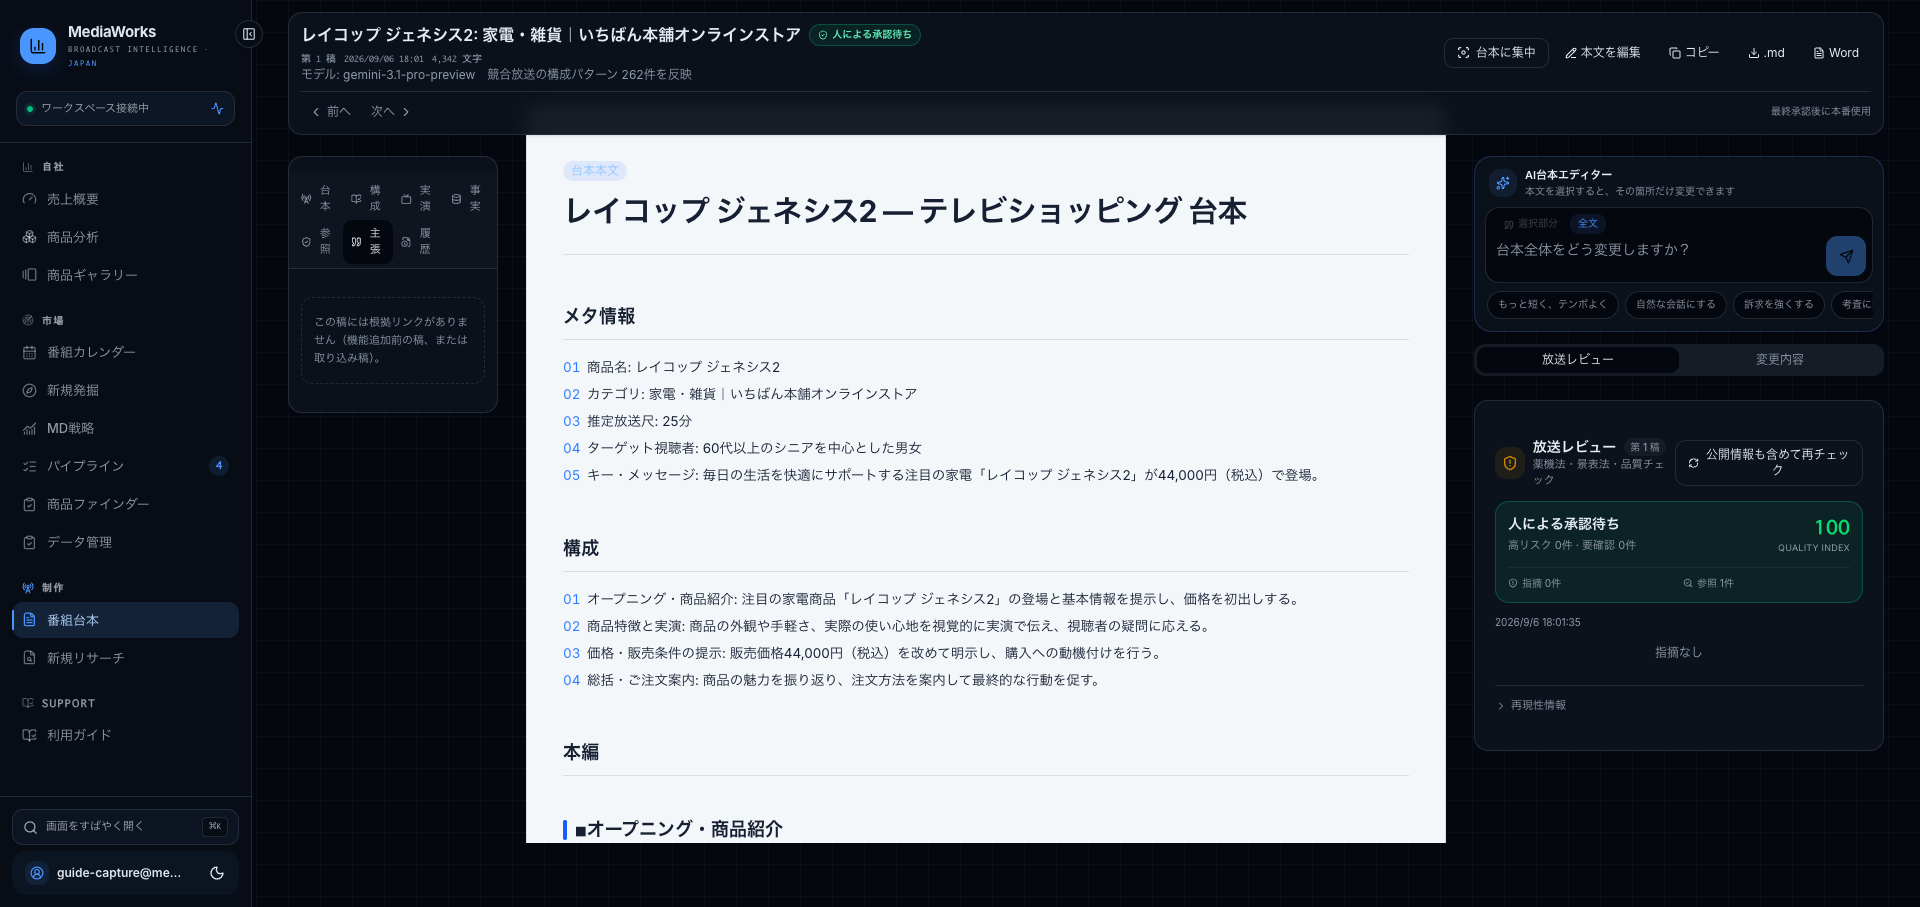
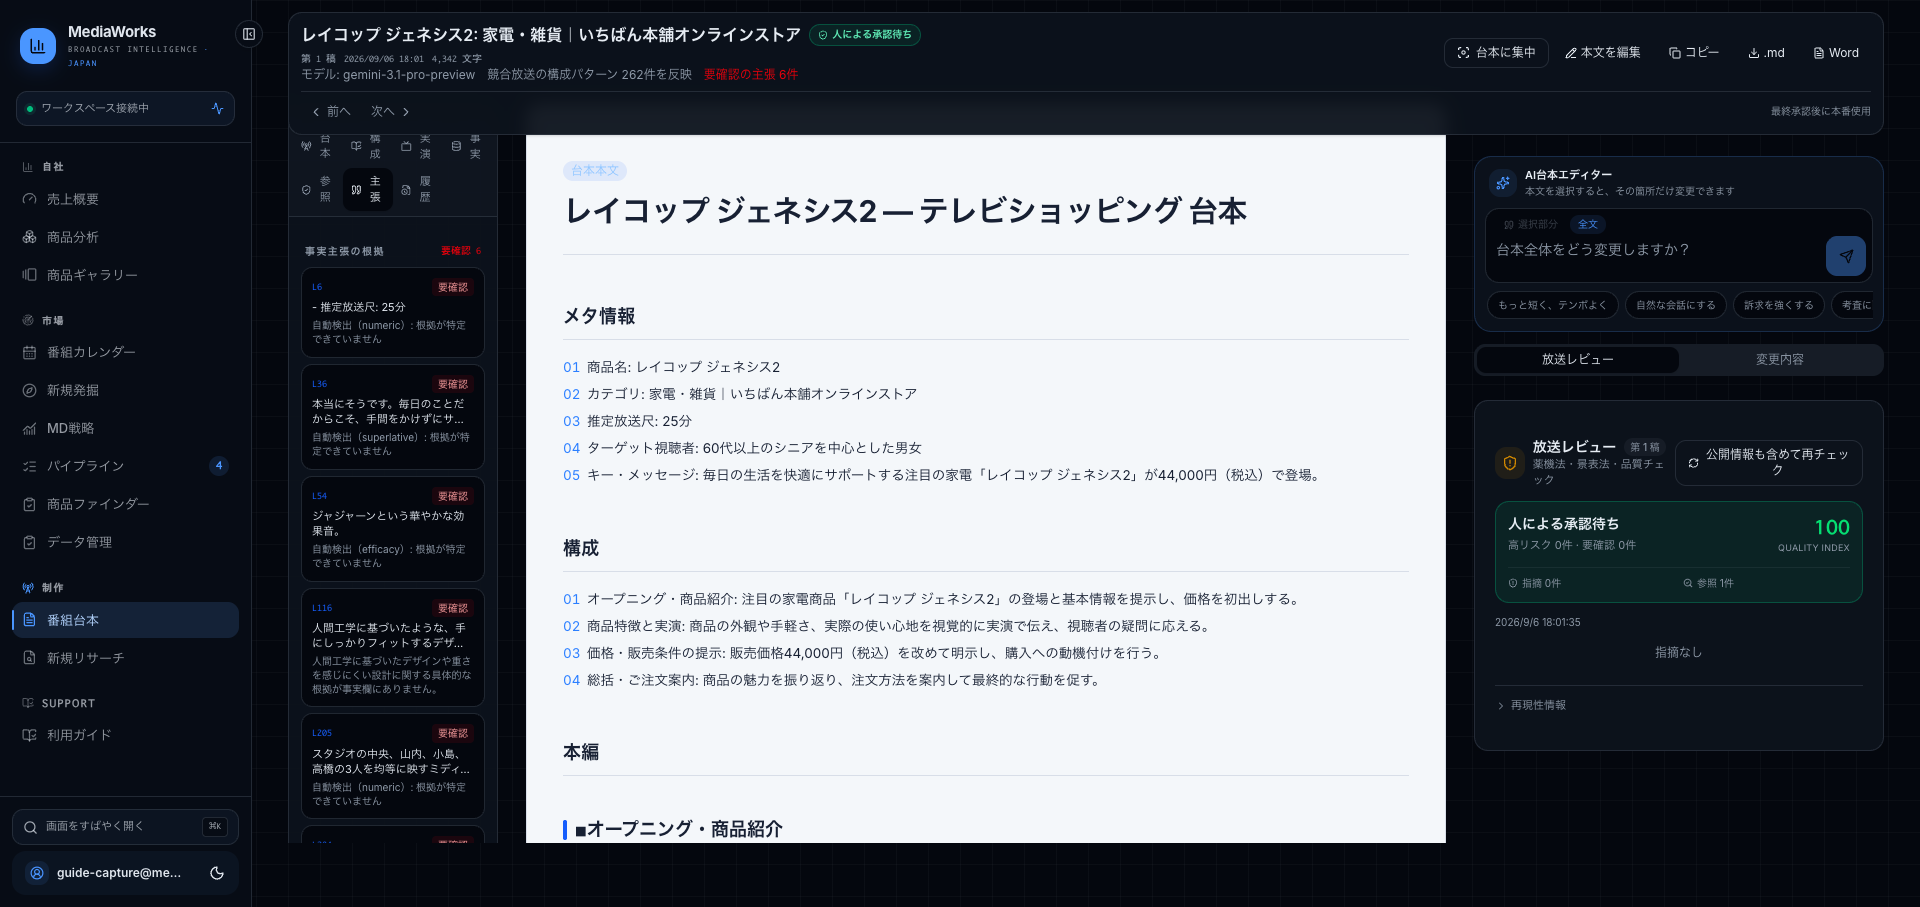
docs(guide): add screenshots for the five undocumented screens
Six captures from the deployed app, wired into the Japanese guide beside the
steps they illustrate: the product finder's evaluation result (showing
「データなし」 and 「判断資料不足」 as they actually render), the import
column-mapping and validation screens, the selection kanban across its four
stages, and the screenplay's 事実 and 主張 tabs.

Taking them surfaced three real bugs, each already fixed and deployed: a
spreadsheet date that could not survive import_rows.raw_json, a translation
key rendered raw as a table header, and provenance panels that always claimed
"unavailable" because the detail page reads the database directly and only
the API route had been wired. None of the three was visible from the tests.

Also corrects the kanban stage names: the JA guide said ソーシング中 where
the screen says 仕入れ中, and the KO guide now gives the on-screen Japanese
labels alongside the Korean, since the app the reader is looking at is in
Japanese.

Removes scripts/_temp-account.ts, a throwaway that a `git add -A scripts`
swept into b44b686. It created and deleted the temporary member account used
for the captures; the account and every row it owned are gone, and the
screenplay it generated keeps its 1 generation context and 20 claim links.

Claude-Session: https://claude.ai/code/session_01EwkQUKGW44gXP6h1oR1HVA

diff --git a/lib/user-guide/content.ts b/lib/user-guide/content.ts
@@ -184,7 +184,7 @@ const ko: GuideContent = {
 				{
 					title: "4단계로 움직인다",
 					body:
-						"선택됨 → 소싱중 → 방송예정 → 종료. 발굴 화면에서 채택하면 자동으로 '선택됨'에 카드가 생긴다. 이후에는 카드를 끌어서 단계를 옮긴다. 방송예정으로 옮길 때는 방송 편성을 연결하거나, 아직 편성이 없으면 메모를 남긴다.",
+						"選択済み(선택됨) → 仕入れ中(소싱중) → 放送予定(방송예정) → 終了(종료). 발굴 화면에서 채택하면 자동으로 '선택됨'에 카드가 생긴다. 이후에는 카드를 끌어서 단계를 옮긴다. 방송예정으로 옮길 때는 방송 편성을 연결하거나, 아직 편성이 없으면 메모를 남긴다.",
 					steps: [
 						"시장 → 파이프라인 을 연다.",
 						"카드를 다음 단계로 끌어다 놓는다.",
@@ -423,6 +423,11 @@ const ja: GuideContent = {
 						"列の対応画面で自動提案を確認して確定する。必須は商品名の1列だけ。",
 						"検証結果でエラー行を確認し、問題なければ適用する。",
 					],
+					image: {
+						src: guideImagePath("10-import-mapping.png"),
+						alt: "データ管理の列対応画面。左に取り込み項目、右にファイルの列のセレクトが並び、下に先頭行のプレビュー表が表示されている。",
+						caption: "自動提案は出るが、確定するのは人。必須は商品名の1列だけ。",
+					},
 				},
 				{
 					title: "実績の列がなくても取り込める",
@@ -433,6 +438,11 @@ const ja: GuideContent = {
 					title: "空欄と 0 は別々に保存される",
 					body:
 						"数量が空欄なら「不明」として、0 なら「0個売れた」という事実として保存されます。この区別が重要なのは、空欄を 0 として読むと、まだ入力していない商品が「売れなかった商品」として順位づけされてしまうからです。分からない値はExcel側で空欄のままにしてください。",
+					image: {
+						src: guideImagePath("11-import-validation.png"),
+						alt: "検証結果画面。取り込み可能3行・エラー1行と表示され、エラー行には列ごとの理由が赤字で並ぶ。下に取り込み履歴の表。",
+						caption: "エラーはExcelの行番号付きで出る。直して再アップロードすればよい。",
+					},
 				},
 				{
 					title: "間違えて入れたとき",
@@ -575,13 +585,18 @@ const ja: GuideContent = {
 				{
 					title: "4段階で動かす",
 					body:
-						"選択済み → ソーシング中 → 放送予定 → 終了。発掘画面で「ソーシング済み」を押すと、自動で「選択済み」にカードが作られます。以降はカードをドラッグして段階を移します。放送予定へ移すときは放送枠を紐づけるか、まだ枠がなければメモを残します。",
+						"選択済み → 仕入れ中 → 放送予定 → 終了。発掘画面で「ソーシング済み」を押すと、自動で「選択済み」にカードが作られます。以降はカードをドラッグして段階を移します。放送予定へ移すときは放送枠を紐づけるか、まだ枠がなければメモを残します。",
 					steps: [
 						"市場 → パイプライン を開く。",
 						"カードを次の段階へドラッグする。",
 						"放送予定へ移すと放送検索ダイアログが開く — 枠を選ぶかメモを入力。",
 						"カードのメニューから「履歴を見る」で、誰がいつ何を変えたかがすべて残っています。",
 					],
+					image: {
+						src: guideImagePath("12-pipeline-kanban.png"),
+						alt: "パイプラインのカンバン。選択済み2件・仕入れ中1件・放送予定1件・終了0件の4列にカードが並ぶ。",
+						caption: "上部メニューの数字バッジが進行中の件数。",
+					},
 				},
 				{
 					title: "終了は自動でも進む",
@@ -609,6 +624,11 @@ const ja: GuideContent = {
 						"条件なしで「蓄積データで探す」を押すだけでも構いません。カテゴリ・価格帯は必要なときだけ。",
 						"結果カードの5つの軸（市場需要・自社適合・収益性・競合余地・放送適合）を見る。",
 					],
+					image: {
+						src: guideImagePath("09-product-finder.png"),
+						alt: "商品ファインダーの評価結果。順位・総合指標と5つの軸が並び、データのない軸には「データなし」、想定貢献利益には「判断資料不足」と表示されている。",
+						caption: "「データなし」「判断資料不足」は低評価ではなく、測る材料がないという表示。",
+					},
 				},
 				{
 					title: "「判断資料不足」は0点ではない",
@@ -799,6 +819,11 @@ const ja: GuideContent = {
 						"構成 / 実演 — 台本を書く前に確定した進行順と尺配分。指定した必須実演が抜けていないかはここで確認します。",
 						"主張 — 台本内の事実主張とその根拠。項目をクリックすると該当行へ移動します。",
 					],
+					image: {
+						src: guideImagePath("14-screenplay-facts.png"),
+						alt: "番組台本の事実タブ。各項目に「断定可」バッジと、evidence class・出典・観測日が表示されている。",
+						caption: "事実タブ。バッジがその一文を放送で言い切ってよいかを決める。",
+					},
 				},
 				{
 					title: "3つのバッジを区別する",
@@ -809,6 +834,11 @@ const ja: GuideContent = {
 					title: "「要確認」は放送前に必ず処理する",
 					body:
 						"主張タブでは赤い「要確認」が先頭に並びます。根拠のない数値や効果表現という意味です。システムは数値・効果・最上級の表現を機械的に検出するため、レビューが見落とした一文もここに引っかかります。上部バーにも件数が表示されます。",
+					image: {
+						src: guideImagePath("13-screenplay-claims.png"),
+						alt: "番組台本の主張タブ。「要確認」バッジ付きの主張が行番号とともに並び、上部バーにも「要確認の主張 6件」と赤字で表示されている。",
+						caption: "上部バーの赤字が未処理件数。クリックで台本の該当行へ飛ぶ。",
+					},
 				},
 				{
 					title: "以前の原稿にはこの情報がない",
